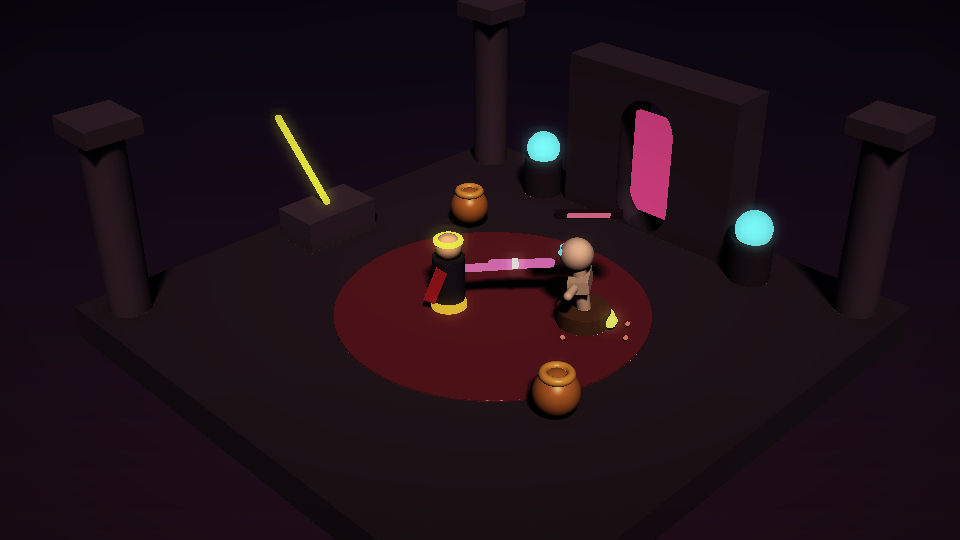
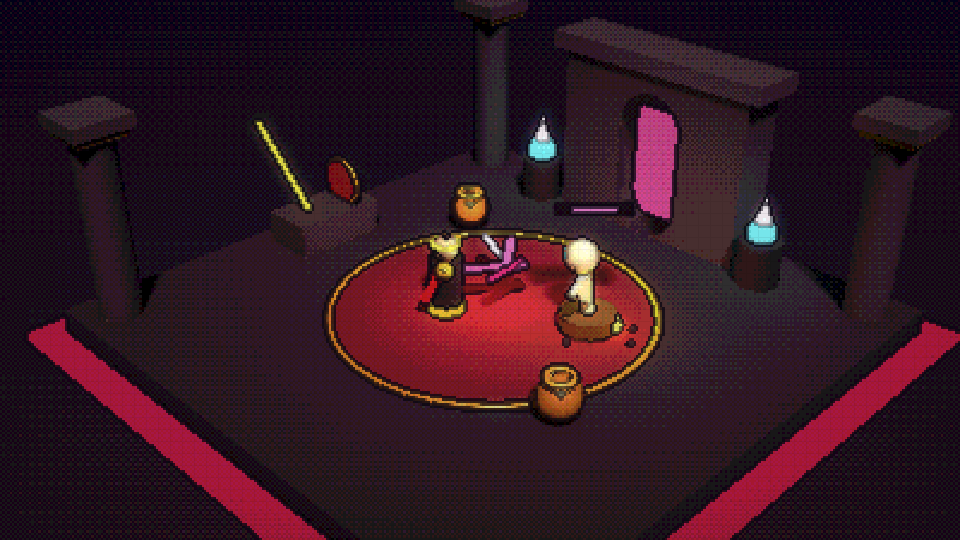
Upgrade Hades courtyard to HD pixel-art ink-outline look with dynamic 3D emissive lighting

diff --git a/src/shaders.h b/src/shaders.h
@@ -303,6 +303,20 @@ static const char *FRAG_SCENE_3D =
 "                float spec = pow(max(dot(nor, halfV), 0.0), mix(96.0, 8.0, rough));\n"
 "                lit += uLightColor * spec * sh * 0.75;\n"
 "            }\n"
+"            // Dynamic point-light bounce from emissive primitives (torches, crystals, slashes)\n"
+"            for (int li = 0; li < uPrimCount; li++) {\n"
+"                vec4 lr4 = texelFetch(uPrims, ivec2(li, 4), 0);\n"
+"                if (int(lr4.x + 0.5) != 2) continue;\n"
+"                vec4 lr0 = texelFetch(uPrims, ivec2(li, 0), 0);\n"
+"                vec4 lr3 = texelFetch(uPrims, ivec2(li, 3), 0);\n"
+"                vec3 toL = lr0.yzw - pos;\n"
+"                float d2 = dot(toL, toL);\n"
+"                if (d2 > 36.0) continue;\n"
+"                float invD = inversesqrt(max(d2, 0.04));\n"
+"                float ndl = max(dot(nor, toL * invD), 0.15);\n"
+"                float atten = 1.0 / (1.0 + 0.50 * d2);\n"
+"                lit += h.col * lr3.rgb * (max(lr4.y, 1.0) * 0.20 * ndl * atten);\n"
+"            }\n"
 "            col = lit;\n"
 "        }\n"
 "\n"
